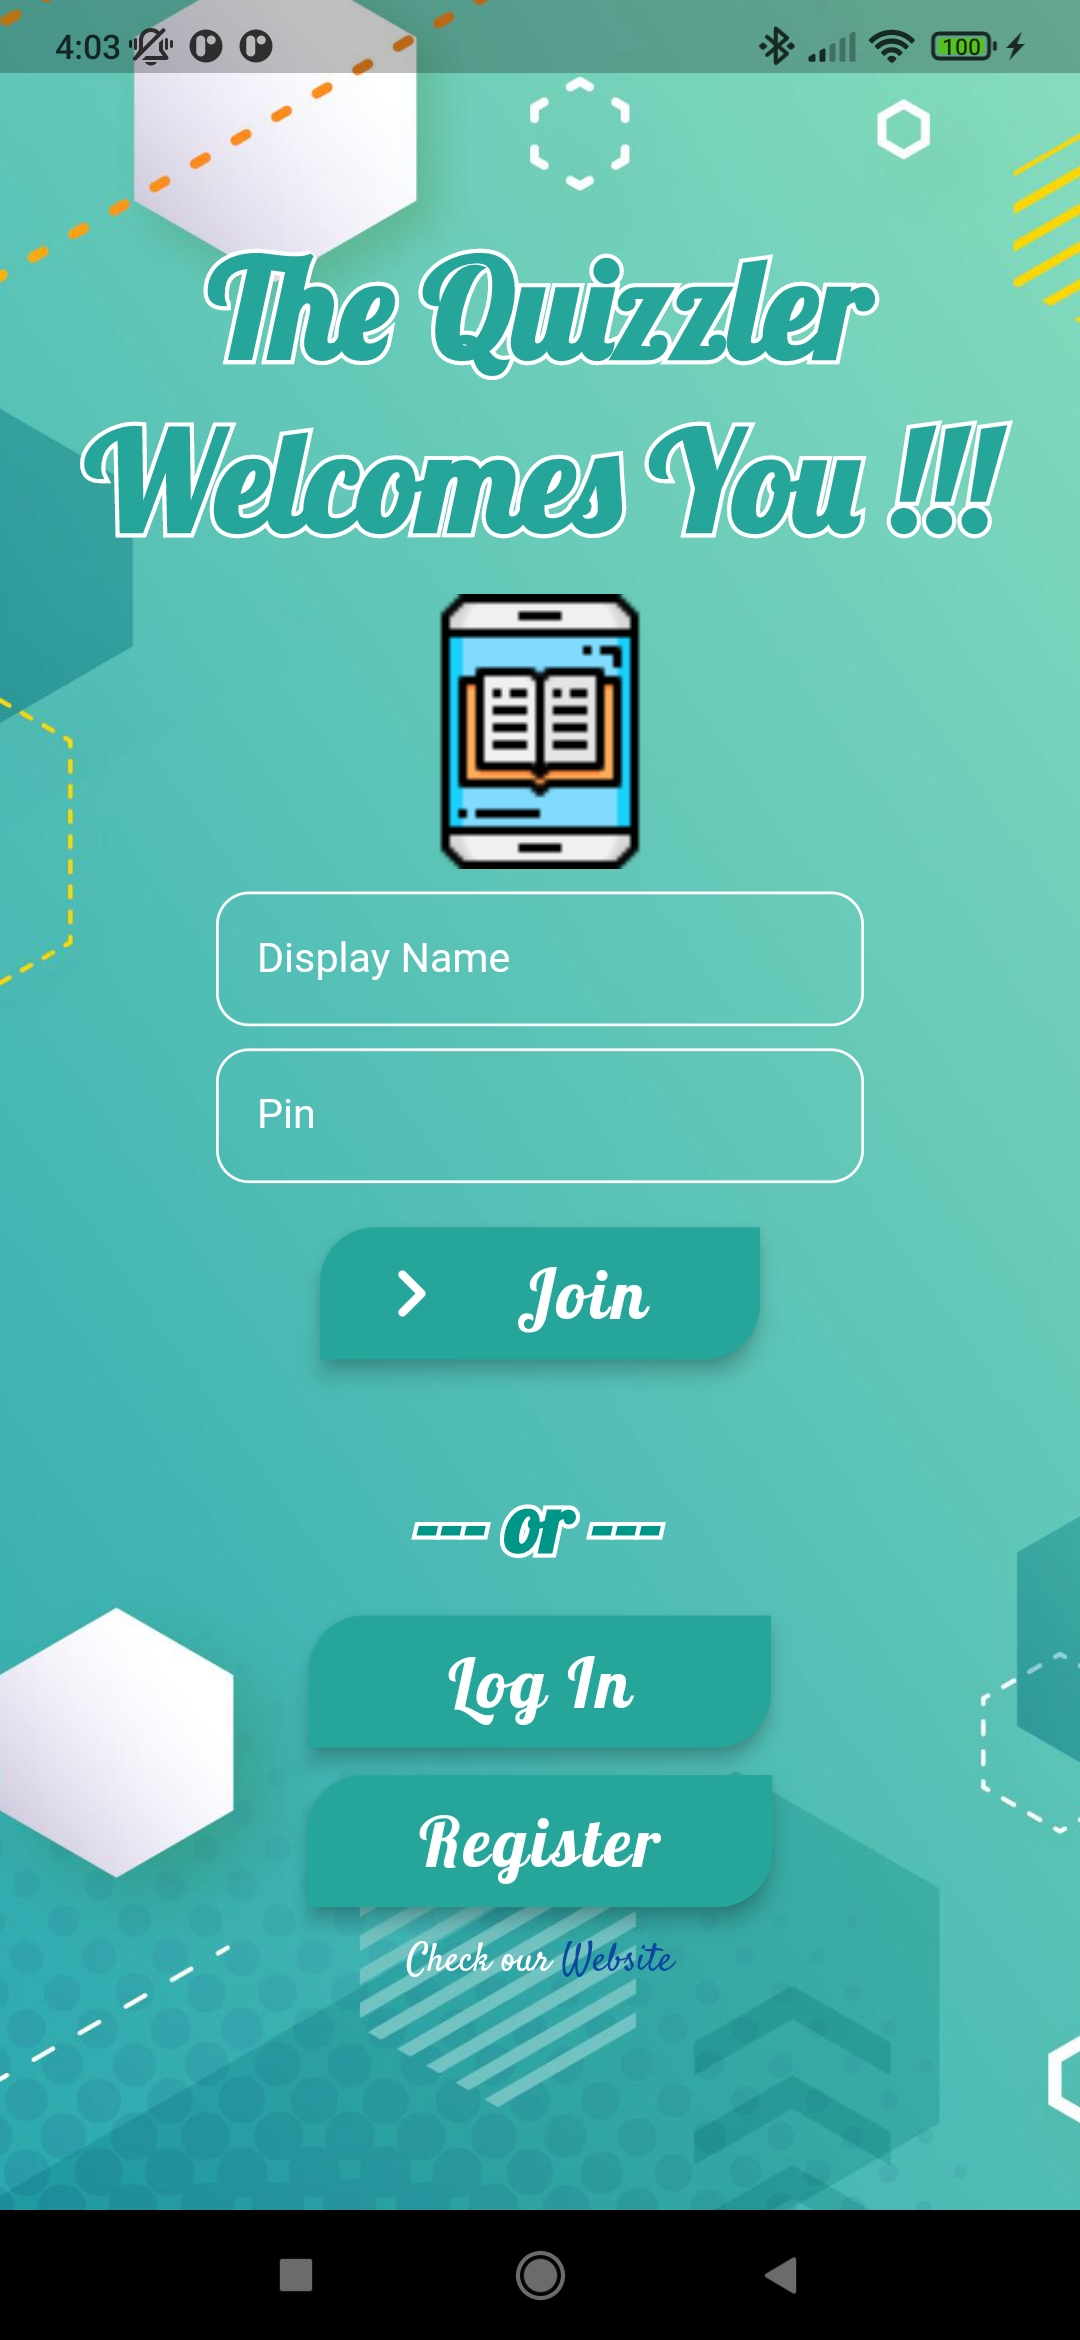
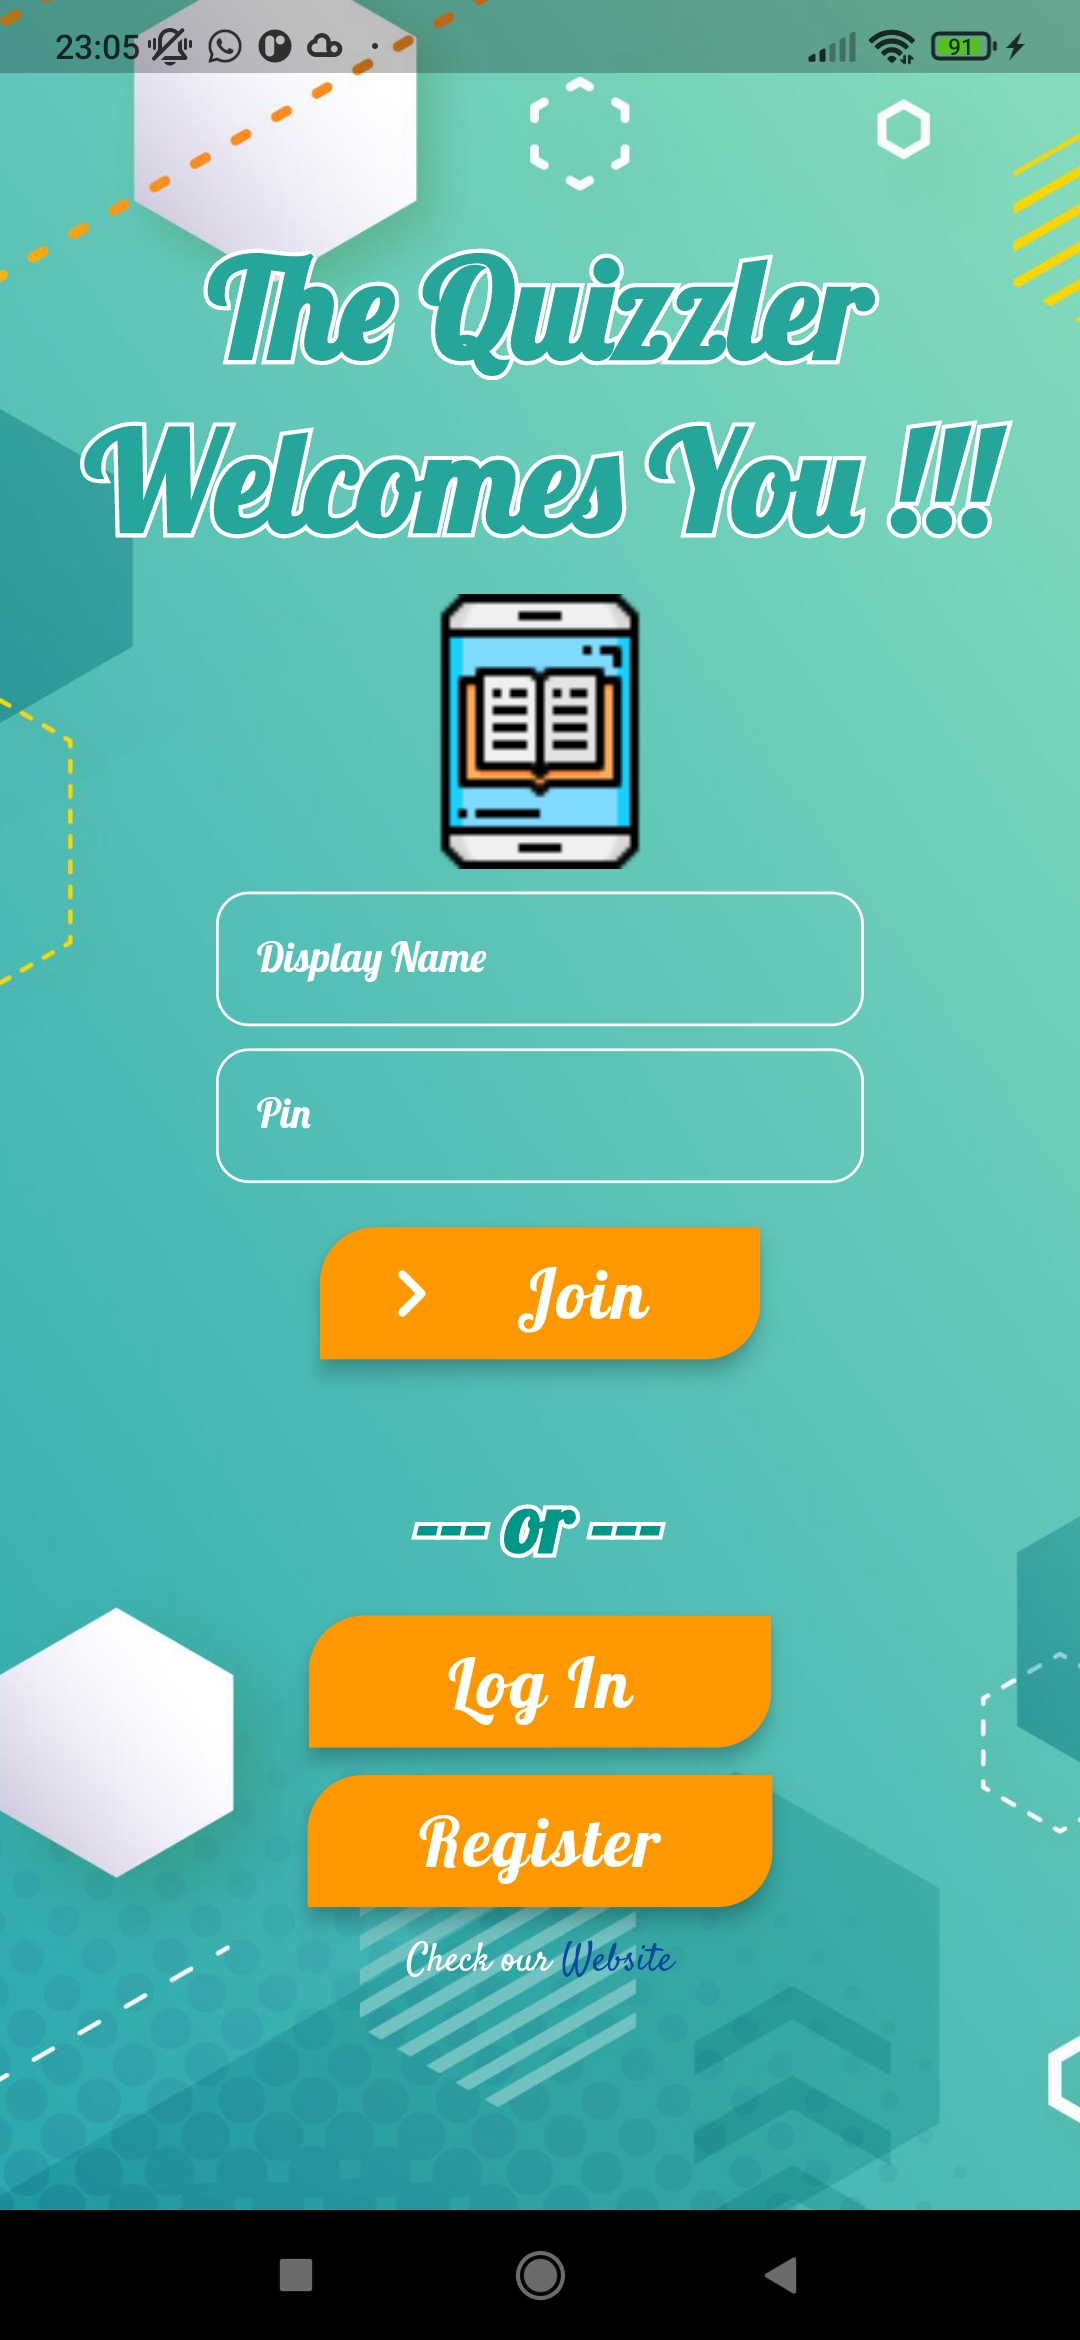
(1)Added firebase authentication and signing-up functionality; (2)Edited Readme; (3)added HomeScreen Class

diff --git a/lib/login_signup.dart b/lib/login_signup.dart
@@ -1,5 +1,6 @@
 import 'package:flutter/gestures.dart';
 import 'package:flutter/material.dart';
+import 'package:test_pro/Authentication.dart';
 import 'package:url_launcher/url_launcher.dart';
 import 'CustomWidgets.dart';
 
@@ -9,6 +10,7 @@ class RegisterScreen extends StatelessWidget {
   final TextEditingController _passwordController = TextEditingController();
   final TextEditingController _confirmPasswordController =
       TextEditingController();
+
   RegisterScreen({Key? key}) : super(key: key);
   @override
   Widget build(BuildContext context) {
@@ -128,7 +130,7 @@ class RegisterScreen extends StatelessWidget {
                 ),
               ],
             ),
-            customWidgets().customButton('Register', Colors.orange),
+            RegButton('Register', Colors.orange, context)
           ],
         )
       ]),
@@ -143,13 +145,47 @@ class RegisterScreen extends StatelessWidget {
       throw 'Could not launch $url';
     }
   }
+
+  Widget RegButton(
+      String _label, Color _backgroundcolor, BuildContext _context) {
+    return FloatingActionButton.extended(
+      onPressed: () {
+        Authentication()
+            .register(_emailController, _passwordController, _context);
+      },
+      label: Text(
+        _label,
+        style: const TextStyle(
+          fontSize: 30,
+          fontFamily: 'Lobster',
+        ),
+      ),
+      backgroundColor: _backgroundcolor,
+      extendedPadding: const EdgeInsets.all(40),
+      shape: const RoundedRectangleBorder(
+        borderRadius: BorderRadius.only(
+          topLeft: Radius.circular(20),
+          bottomRight: Radius.circular(20),
+        ),
+      ),
+    );
+  }
 }
 
 class LogInScreen extends StatelessWidget {
   //final TextEditingController _usernameController = TextEditingController();
+
   final TextEditingController _emailController = TextEditingController();
+
   final TextEditingController _passwordController = TextEditingController();
-  LogInScreen({Key? key}) : super(key: key);
+
+  @override
+  void dispose() {
+    // Clean up the controller when the widget is disposed.
+    _emailController.dispose();
+    _passwordController.dispose();
+  }
+
   @override
   Widget build(BuildContext context) {
     Size size = MediaQuery.of(context).size;
@@ -200,10 +236,34 @@ class LogInScreen extends StatelessWidget {
             SizedBox(
               height: size.height * 0.02,
             ),
-            customWidgets().customButton('Log in', Colors.orange),
+            LoginButton('Log in', Colors.orange, context),
           ],
         )
       ]),
+    );
+  }
+
+  Widget LoginButton(
+      String _label, Color _backgroundcolor, BuildContext _context) {
+    return FloatingActionButton.extended(
+      onPressed: () {
+        Authentication().login(_emailController, _passwordController, _context);
+      },
+      label: Text(
+        _label,
+        style: const TextStyle(
+          fontSize: 30,
+          fontFamily: 'Lobster',
+        ),
+      ),
+      backgroundColor: _backgroundcolor,
+      extendedPadding: const EdgeInsets.all(40),
+      shape: const RoundedRectangleBorder(
+        borderRadius: BorderRadius.only(
+          topLeft: Radius.circular(20),
+          bottomRight: Radius.circular(20),
+        ),
+      ),
     );
   }
 }

diff --git a/lib/Authentication.dart b/lib/Authentication.dart
@@ -1,7 +1,69 @@
-// ignore: file_names
-// ignore: file_names
-import 'package:firebase_auth/firebase_auth.dart' as auth;
+// ignore_for_file: file_names
+
+import 'package:firebase_auth/firebase_auth.dart';
 import 'package:flutter/material.dart';
 import 'package:firebase_core/firebase_core.dart';
+import 'HomeScreen.dart';
 
-class Authentication {}
+class Authentication {
+  final _auth = FirebaseAuth.instance;
+
+//TODO: Add the other controllers to this method
+  void register(TextEditingController _email, TextEditingController _passwd,
+      _context) async {
+    try {
+      //TODO: compare password with confirm password with if and else
+      //TODO: find a way to hook the username to a user
+      await _auth.createUserWithEmailAndPassword(
+        email: _email.text,
+        password: _passwd.text,
+      );
+      ScaffoldMessenger.of(_context).showSnackBar(const SnackBar(
+        content: Text('Registration Complete'),
+        duration: Duration(seconds: 5),
+      ));
+      Navigator.of(_context).pop();
+    } on FirebaseAuthException catch (e) {
+      showDialog(
+        context: _context,
+        builder: (ctx) => AlertDialog(
+          title: const Text(
+            "Ops! An Error Happend",
+            style: TextStyle(
+              fontFamily: 'Lobster',
+              fontSize: 40,
+            ),
+          ),
+          content: Text('${e.message}'),
+        ),
+      );
+    }
+  }
+
+  void login(TextEditingController _email, TextEditingController _passwd,
+      BuildContext _context) async {
+    try {
+      await _auth.signInWithEmailAndPassword(
+          email: _email.text, password: _passwd.text);
+      await Navigator.of(_context).push(
+        MaterialPageRoute(
+          builder: (contex) => HomeScreen(),
+        ),
+      );
+    } on FirebaseAuthException catch (e) {
+      showDialog(
+        context: _context,
+        builder: (ctx) => AlertDialog(
+          title: const Text(
+            "Ops! Login Failed",
+            style: TextStyle(
+              fontFamily: 'Lobster',
+              fontSize: 40,
+            ),
+          ),
+          content: Text('${e.message}'),
+        ),
+      );
+    }
+  }
+}

diff --git a/lib/WelcomingScreen.dart b/lib/WelcomingScreen.dart
@@ -1,4 +1,4 @@
-// ignore_for_file: unused_local_variable, file_names, prefer_const_constructors, duplicate_ignore
+// ignore_for_file: unused_local_variable, file_names, prefer_const_constructors, duplicate_ignore, unnecessary_new
 
 import 'dart:ui';
 import 'package:flutter/gestures.dart';
@@ -146,7 +146,7 @@ class WelcominScreen extends StatelessWidget {
         Icons.keyboard_arrow_right_rounded,
         size: 36.0,
       ),
-      backgroundColor: Colors.teal[400],
+      backgroundColor: Colors.orange,
       shape: RoundedRectangleBorder(
         borderRadius: BorderRadius.only(
             topLeft: Radius.circular(20), bottomRight: Radius.circular(20)),
@@ -194,7 +194,6 @@ class WelcominScreen extends StatelessWidget {
               cntxt,
               new MaterialPageRoute(builder: (cntxt) => new LogInScreen()),
             );
-            //TODO
           },
           label: const Text(
             'Log In',
@@ -203,7 +202,7 @@ class WelcominScreen extends StatelessWidget {
               fontFamily: 'Lobster',
             ),
           ),
-          backgroundColor: Colors.teal[400],
+          backgroundColor: Colors.orange,
           shape: RoundedRectangleBorder(
             borderRadius: BorderRadius.only(
                 topLeft: Radius.circular(20), bottomRight: Radius.circular(20)),
@@ -219,7 +218,6 @@ class WelcominScreen extends StatelessWidget {
               cntxt,
               new MaterialPageRoute(builder: (cntxt) => new RegisterScreen()),
             );
-            //TODO
           },
           label: const Text(
             'Register',
@@ -228,7 +226,7 @@ class WelcominScreen extends StatelessWidget {
               fontFamily: 'Lobster',
             ),
           ),
-          backgroundColor: Colors.teal[400],
+          backgroundColor: Colors.orange,
           shape: RoundedRectangleBorder(
             borderRadius: BorderRadius.only(
                 topLeft: Radius.circular(20), bottomRight: Radius.circular(20)),

diff --git a/lib/CustomWidgets.dart b/lib/CustomWidgets.dart
@@ -42,9 +42,11 @@ class customWidgets {
   }
 
   //*this is A button with the label 'register on it'
-  Widget customButton(String _label, Color _backgroundcolor) {
+  Widget customButton(String _label, Color _backgroundcolor, void _function) {
     return FloatingActionButton.extended(
-      onPressed: () {},
+      onPressed: () {
+        _function;
+      },
       label: Text(
         _label,
         style: const TextStyle(

diff --git a/lib/main.dart b/lib/main.dart
@@ -1,7 +1,10 @@
+import 'package:firebase_core/firebase_core.dart';
 import 'package:flutter/material.dart';
 import 'WelcomingScreen.dart';
 
-void main() {
+void main() async {
+  WidgetsFlutterBinding.ensureInitialized();
+  await Firebase.initializeApp();
   runApp(
     MaterialApp(
       debugShowCheckedModeBanner: false,

diff --git a/lib/HomeScreen.dart b/lib/HomeScreen.dart
@@ -1,0 +1,9 @@
+import 'package:flutter/material.dart';
+
+class HomeScreen extends StatelessWidget {
+  @override
+  Widget build(BuildContext context) {
+    // TODO: implement build
+    throw UnimplementedError();
+  }
+}

diff --git a/README.md b/README.md
@@ -2,15 +2,17 @@
 <img src="./misc/WelcomePage.jpg" width=50% height=50%>
 <img src="./misc/Log_in.jpg" width=50% height=50%>
 <img src="./misc/Sign_up.jpg" width=50% height=50%>
-## Getting Started
 
-This project is a starting point for a Flutter application.
-
-A few resources to get you started if this is your first Flutter project:
-
-- [Lab: Write your first Flutter app](https://flutter.dev/docs/get-started/codelab)
-- [Cookbook: Useful Flutter samples](https://flutter.dev/docs/cookbook)
-
-For help getting started with Flutter, view our
-[online documentation](https://flutter.dev/docs), which offers tutorials,
-samples, guidance on mobile development, and a full API reference.
+# Implementd
+-welcoming screen, login screen, register screen (functional)
+-"register" and "login" buttons and their functionality are implemented
+-firebase authentication and registeration are implementd (problem: only with email and password)
+-custom reusable Widgets 
+# TODOs
+-implement or integrate a home screen in the "HomeScreen.dart"(medium)
+-implement functionality to the button "Join" (easy)
+-implement a class "TemporarySession.dart" to make player able to join a live game (hard)
+-implement "quizzes.dart" (hard)
+...
+..
+.
